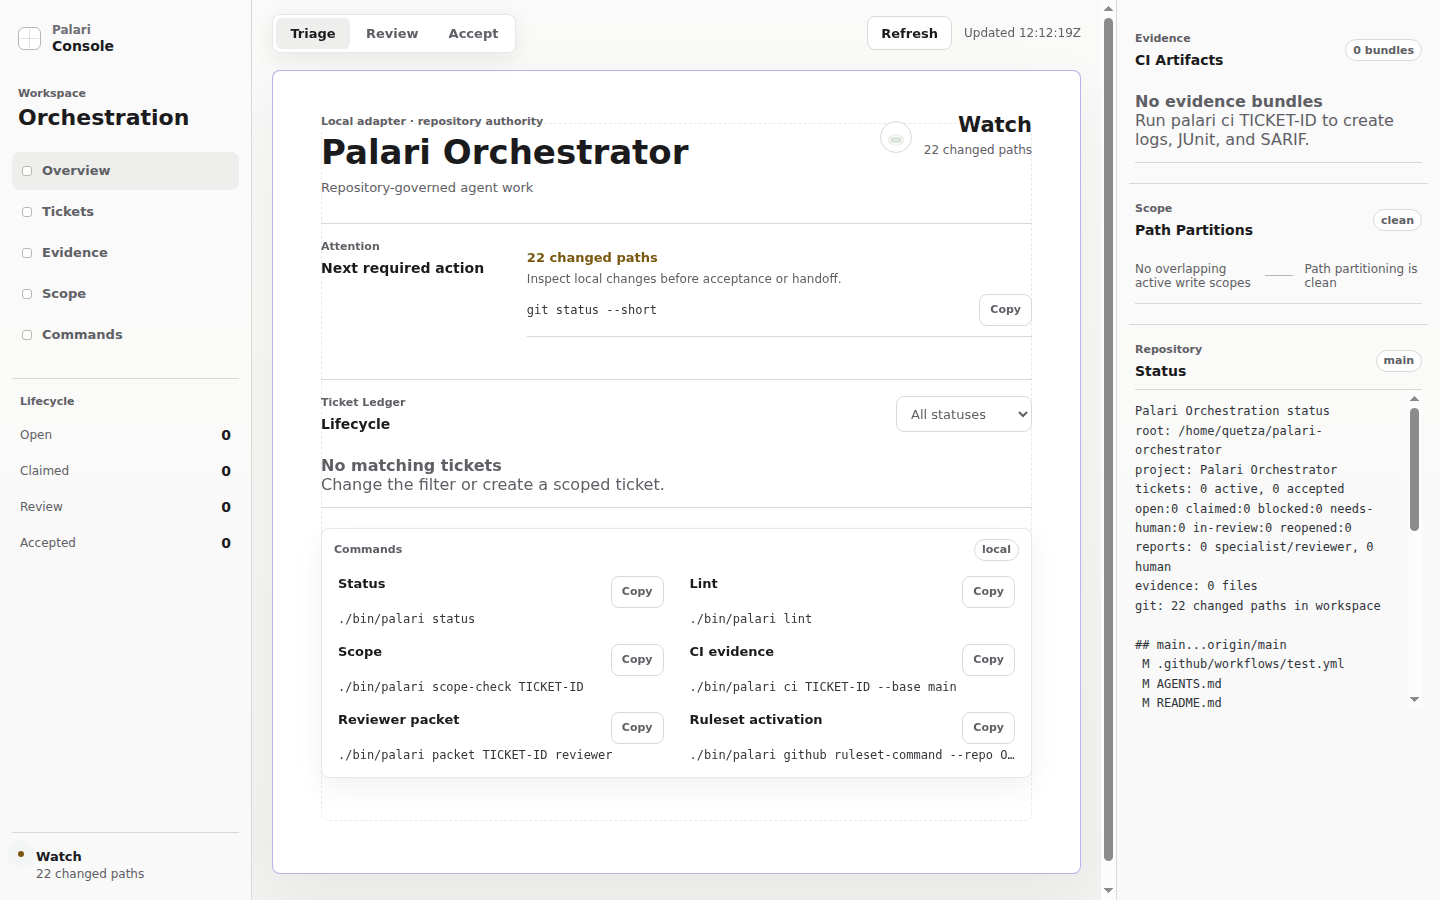
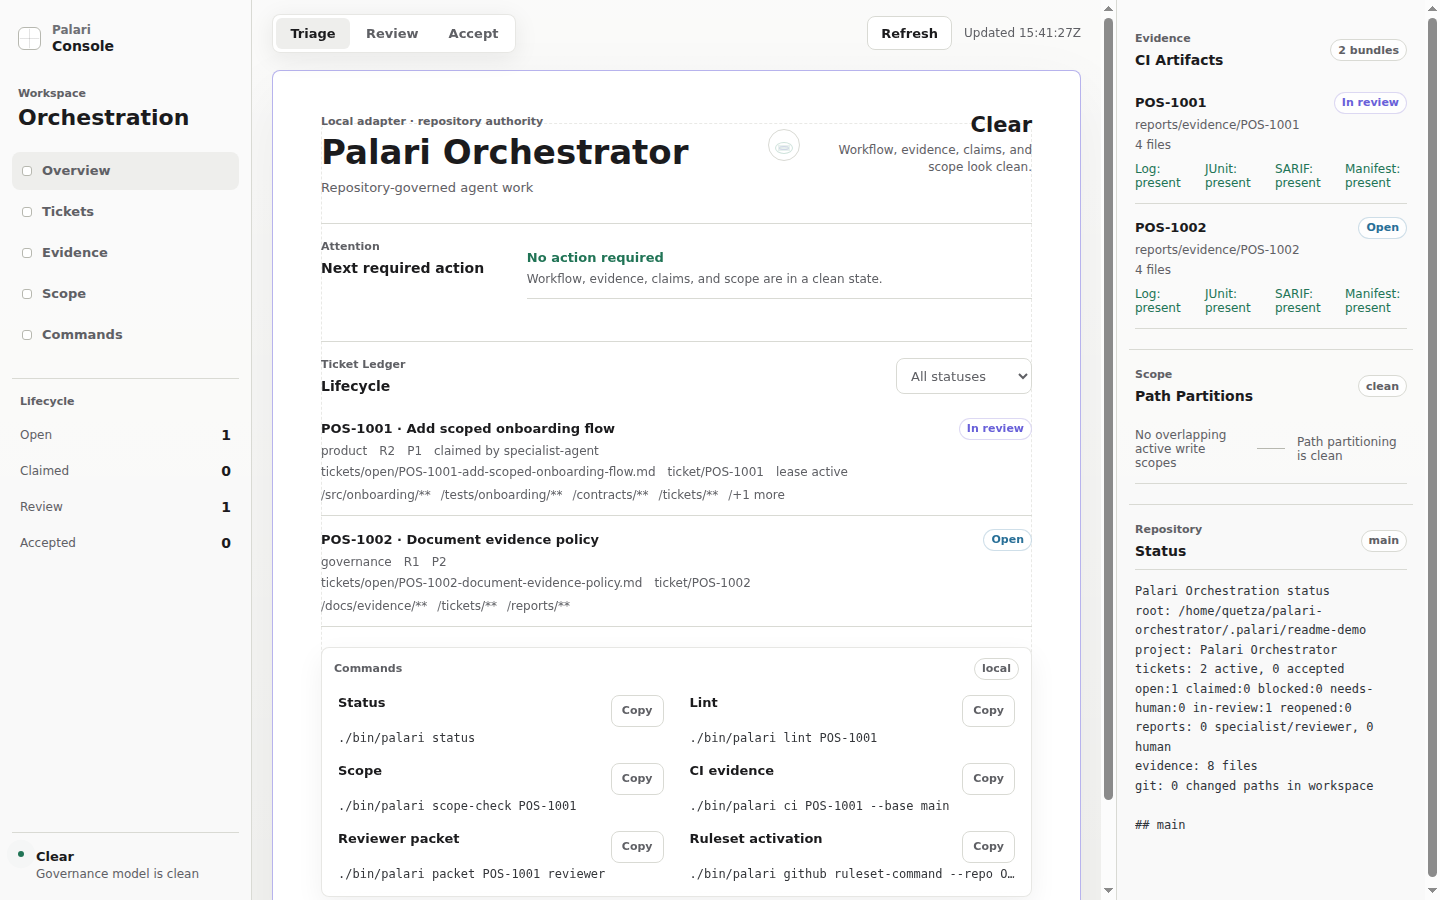
Polish README presentation

diff --git a/README.md b/README.md
@@ -1,11 +1,11 @@
 <p align="center">
-  <img src="assets/readme/palari-orchestrator-hero-general.png" alt="A calm operator workspace showing an AI coding workflow moving through ticket intake, isolated work, evidence, review, and human acceptance." width="100%">
+  <img src="assets/readme/palari-orchestrator-hero-general.png" alt="A calm Palari workflow moving from ticket intake through scoped work, evidence, review, and human acceptance." width="100%">
 </p>
 
 <h1 align="center">Palari Orchestrator</h1>
 
 <p align="center">
-  A small safety layer for letting AI coding agents work in your repo without losing the thread, the scope, or the final human say.
+  Repo-native governance for AI coding agents: scoped tickets, isolated work, evidence, fresh review, and explicit human acceptance.
 </p>
 
 <p align="center">
@@ -24,15 +24,28 @@
   <a href="#command-reference">Commands</a>
 </p>
 
-Palari turns "let the agent handle it" into a visible, reviewable workflow:
+Palari Orchestrator is the portable software-repo version of the Palari idea:
+give an AI coworker a named job, approved sources, visible records, and a
+permission moment before anything important moves.
 
 ```text
 ticket -> worktree -> packet -> scope-check -> ci evidence -> review -> accept
 ```
 
-It is built for founders, operators, product people, and small teams who want
-AI-assisted coding to feel controlled instead of mysterious. The repo stays the
-source of truth. Agents get clear boundaries. Humans keep acceptance authority.
+It is built for founders, operators, product people, and small technical teams
+who want AI-assisted coding to feel controlled instead of mysterious. The repo
+stays the source of truth. Agents get clear boundaries. Humans keep acceptance
+authority.
+
+## At a Glance
+
+| Question | Answer |
+| --- | --- |
+| Who is it for? | Teams delegating coding work to agents while keeping human review and repository control. |
+| What is the core? | Bash, Markdown, git, templates, and checks that can move into almost any repo. |
+| What does it enforce? | Ticket lifecycle, allowed/forbidden paths, evidence bundles, fresh-context review, and acceptance gates. |
+| What is optional? | GitHub rulesets, hooks, MCP wrappers, the local console, and repo-memory adapters. |
+| What is it not? | A hosted agent platform, product-specific Palari app code, or a replacement for human judgment. |
 
 ## Why Palari
 
